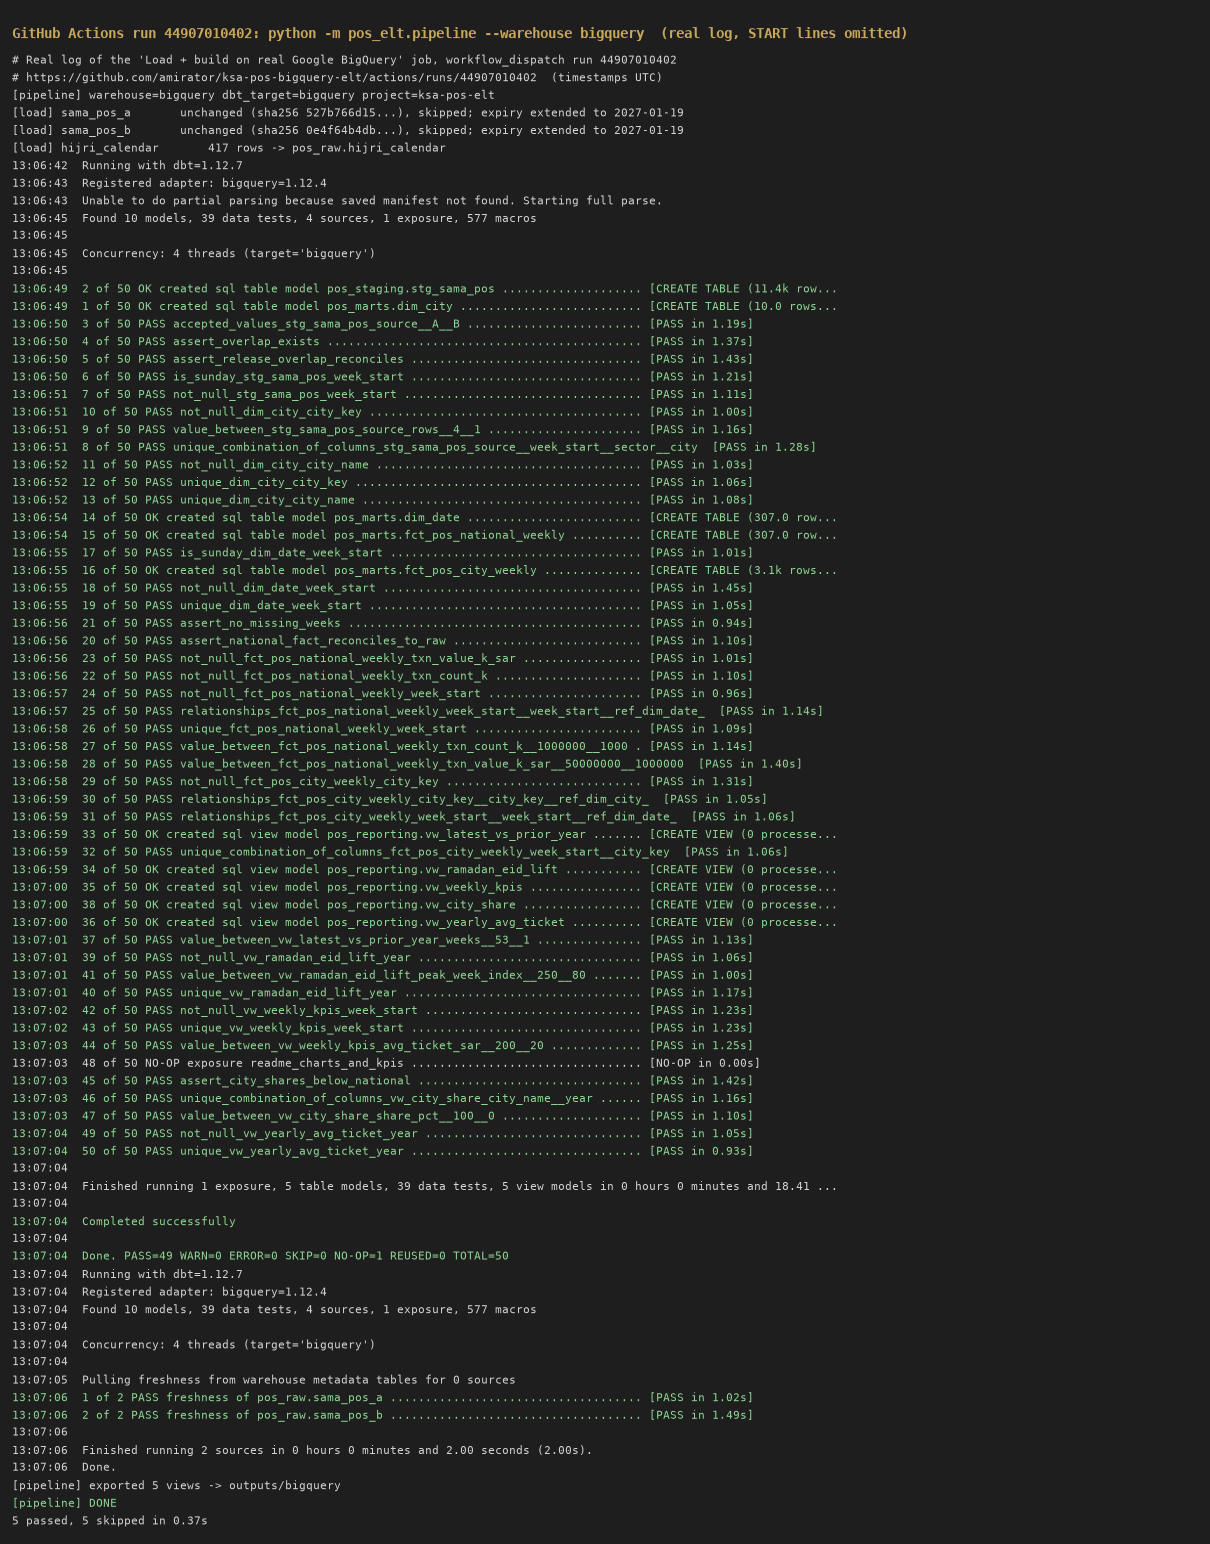
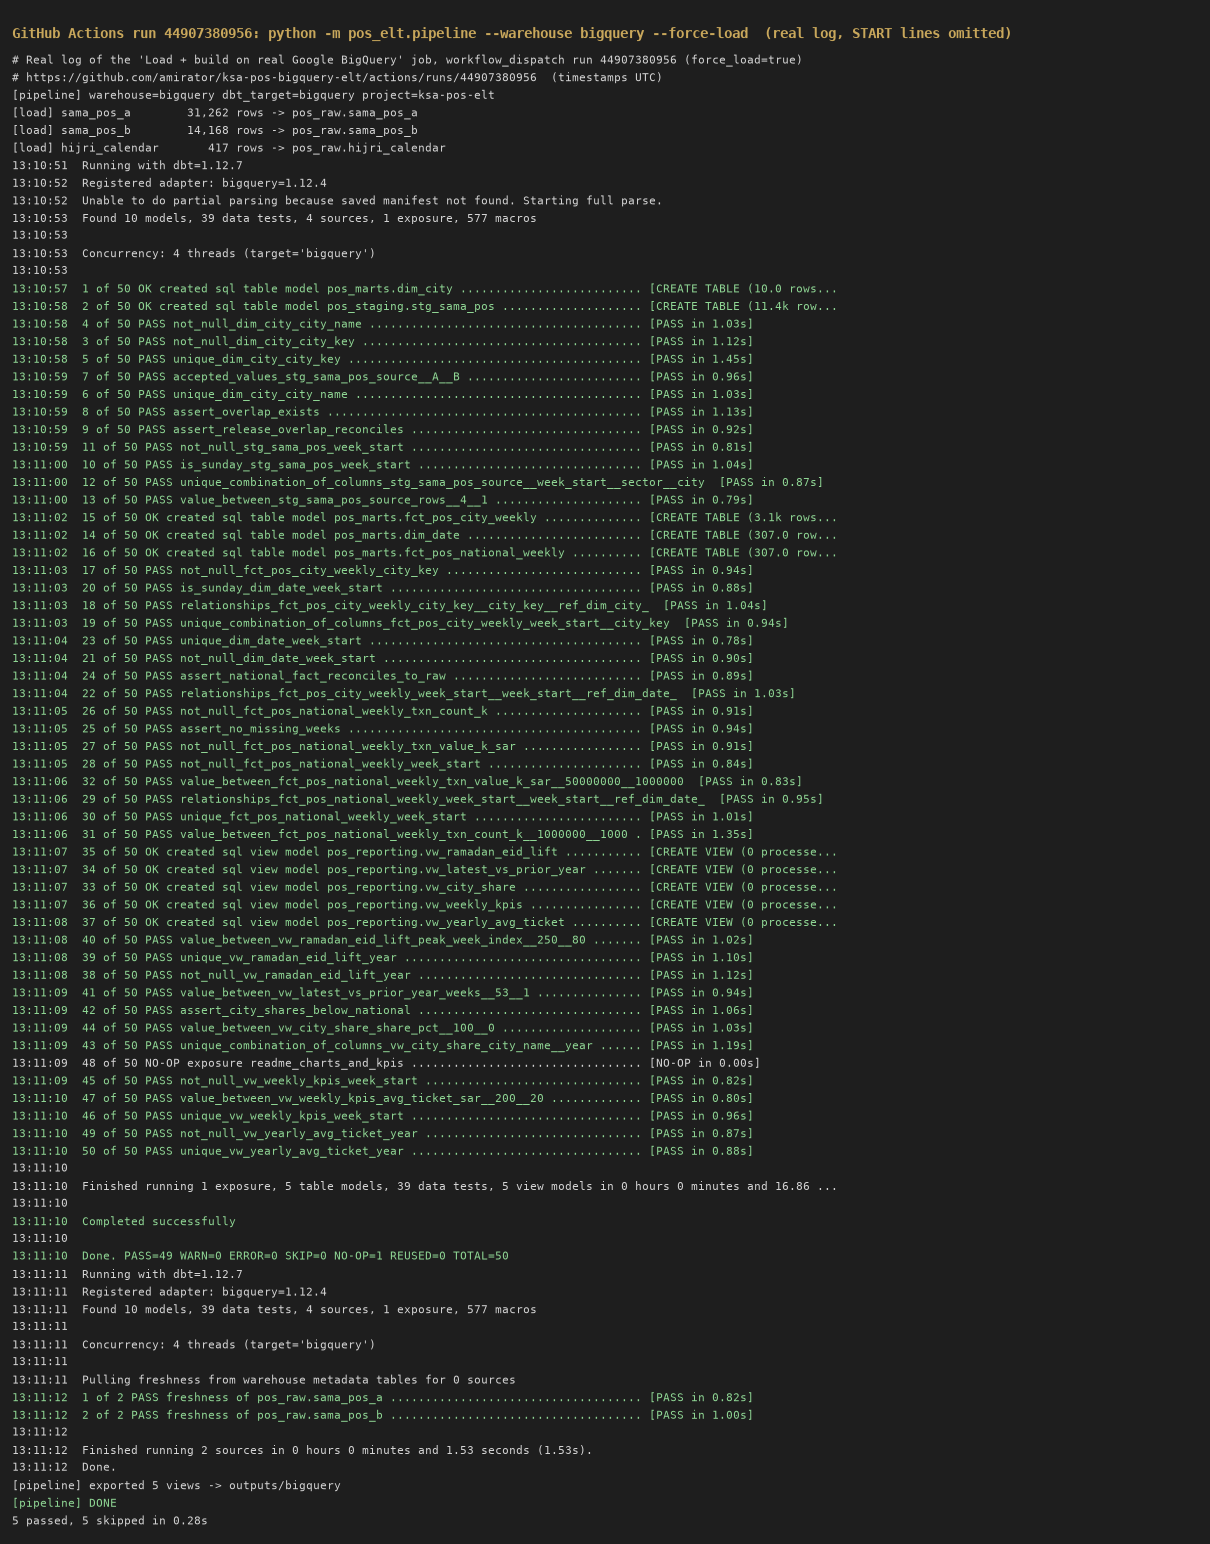
Live on Google BigQuery (sandbox): README status, real BigQuery evidence + job log, cloud-job concurrency guard

diff --git a/tests/test_outputs.py b/tests/test_outputs.py
@@ -48,9 +48,14 @@ def test_readme_numbers_match_kpis(path):
     assert s in README, f"README is out of date: {path} = {s} not found"
 
 
-def test_readme_is_honest_about_cloud_status():
-    assert "BigQuery-ready" in README
-    assert not re.search(r"(?i)\b(is|now) (live|deployed) (on|to) BigQuery\b", README)
+def test_readme_cloud_claim_is_backed_by_evidence():
+    """The README may say 'Live on Google BigQuery' only with committed evidence from a real run."""
+    assert "Live on Google BigQuery (sandbox), refreshed weekly" in README
+    ev = (ROOT / "docs" / "bigquery" / "evidence.md").read_text()
+    assert "Queried through the BigQuery API" in ev and "pos_reporting.vw_weekly_kpis | VIEW | 307" in ev
+    assert "pos_raw.sama_pos_a | TABLE | 31262" in ev
+    log = (ROOT / "docs" / "run_logs" / "bigquery_ci_run.txt").read_text()
+    assert "dbt_target=bigquery" in log and "PASS=49" in log and "ERROR=0" in log
 
 
 @pytest.mark.parametrize("view", ["vw_weekly_kpis", "vw_yearly_avg_ticket", "vw_city_share",

diff --git a/README.md b/README.md
@@ -1,6 +1,6 @@
-# KSA POS cloud ELT: SAMA weekly card spending → BigQuery-ready warehouse with dbt
+# KSA POS cloud ELT: SAMA weekly card spending → Google BigQuery (sandbox) with dbt
 
-> **Status: BigQuery-ready; cloud deploy pending account setup.** The full pipeline runs end to end on a local **DuckDB** warehouse and, in CI, on the open-source **BigQuery emulator** (same loader, same dbt models, BigQuery SQL dialect), and both engines return identical results. It has **not yet run on real Google BigQuery**: that needs a free BigQuery-sandbox project and one GitHub secret, set up by the owner (steps [below](#go-live-on-bigquery-free-sandbox-no-card)). Until then the cloud job in CI is skipped on purpose.
+> **Status: Live on Google BigQuery (sandbox), refreshed weekly.** GitHub Actions loads the data into the free BigQuery sandbox project `ksa-pos-elt` (location US), builds the dbt models and runs all 39 dbt tests there. Every Monday it refreshes the data, and a parity test confirms that the 5 views on BigQuery match the local DuckDB build. Evidence comes from real API queries in [`docs/bigquery/evidence.md`](docs/bigquery/evidence.md), and the real job log is in [`docs/run_logs/bigquery_ci_run.txt`](docs/run_logs/bigquery_ci_run.txt) (run [44907380956](https://github.com/amirator/ksa-pos-bigquery-elt/actions/runs/44907380956)). The same pipeline also runs locally on DuckDB and in CI on the open-source BigQuery emulator, with no account needed.
 
 **Business question:** *How fast is card spending at Saudi points of sale still growing, where is it going (cities, ticket size), and how big is the Ramadan/Eid swing? And can a team get those answers refreshed every week from a cloud warehouse instead of a manual spreadsheet?*
 
@@ -45,9 +45,14 @@ KAPSARC public API ──► Python loader ──────────► raw
 | Load | One **warehouse adapter** (`DuckDBWarehouse` / `BigQueryWarehouse`) chosen by the `WAREHOUSE` env var. Unchanged files are skipped by hash; every attempt, including failures, is appended to `pos_raw.load_log`; a failed source does not stop the others but fails the run. Builds a Hijri (Umm al-Qura) week calendar with Ramadan/Eid flags. | `src/pos_elt/warehouse.py`, `load.py`, `calendar.py` |
 | Transform | dbt project with three targets (`duckdb`, `bq_emulator`, `bigquery`). Portable SQL; the few dialect differences (day-of-week, date arithmetic) are adapter-dispatched macros. | `dbt/` |
 | Serve | 5 views in `pos_reporting`: **`vw_weekly_kpis`** (value, volume, avg ticket, 4-week avg, WoW, vs 52 weeks ago), **`vw_yearly_avg_ticket`**, **`vw_city_share`**, **`vw_ramadan_eid_lift`**, **`vw_latest_vs_prior_year`**. | `dbt/models/reporting/` |
-| Schedule | GitHub Actions cron every Monday 04:00 UTC (07:00 Riyadh): re-downloads SAMA data and rebuilds; the BigQuery job runs only when the `GCP_SA_KEY` secret exists. | `.github/workflows/elt.yml` |
+| Schedule | GitHub Actions cron every Monday 04:00 UTC (07:00 Riyadh): re-downloads SAMA data and rebuilds DuckDB, the emulator and **Google BigQuery** (the cloud job runs when the `GCP_SA_KEY` secret exists, one at a time). | `.github/workflows/elt.yml` |
 
-**Built for the free BigQuery sandbox.** The sandbox needs no card but allows no DML (`INSERT/UPDATE/DELETE/MERGE`) or streaming, and tables expire after 60 days. So every write is a **load job** (`WRITE_TRUNCATE` / `WRITE_APPEND`), dbt uses only `table` and `view` materialisations (DDL), and a test fails the build if anyone adds DML or an incremental model. The weekly job re-creates expired tables (a raw table that has expired is reloaded even if the file hash is unchanged).
+**Built for the free BigQuery sandbox.** The sandbox needs no card, but it allows no DML (`INSERT/UPDATE/DELETE/MERGE`) and no streaming, and every table expires after 60 days. So the pipeline handles it like this:
+- **Writes:** every write is a **load job** (`WRITE_TRUNCATE` / `WRITE_APPEND`), and dbt uses only `table` and `view` materialisations (DDL). A test fails the build if anyone adds DML or an incremental model.
+- **Expiry:** tables that dbt re-creates get a fresh 60 days on every run. Raw tables skipped as unchanged, and the append-only `load_log`, get their expiry moved to now + 59 days. Setting it beyond 60 days is refused without billing (HTTP 403, tested).
+- **Go-live fix:** the first real run showed that BigQuery reserves column names starting with `_FILE_`, so the raw lineage columns are `src_file_sha256` and `loaded_at`. The failed attempt is still recorded in `pos_raw.load_log`.
+
+![BigQuery job log](docs/img/bigquery_ci_run.png)
 
 ## Tests and checks
 
@@ -58,27 +63,28 @@ KAPSARC public API ──► Python loader ──────────► raw
   * named cities never exceed 100% of the national total.
 * **Source freshness** on `loaded_at` (warn after 8 days, error after 35).
 * **pytest**: adapter switching, Hijri calendar flags, CSV parsing with BOM and unknown-indicator rejection, loader hash-skip / reload / failure logging, sandbox no-DML guard, CI gating, README-vs-`kpis.json` drift test, and a **cross-repo reconciliation**: the KPIs must equal those published by [ksa-pos-spending-dashboard](https://github.com/amirator/ksa-pos-spending-dashboard), which built the same numbers with hand-written DuckDB SQL.
-* **BigQuery parity (CI)**: the `bigquery-emulator` job runs the identical pipeline against [goccy/bigquery-emulator](https://github.com/goccy/bigquery-emulator) v0.8.1 (checksum-verified) and asserts all 5 views equal the DuckDB views. Real log: [`docs/run_logs/bq_emulator_run.txt`](docs/run_logs/bq_emulator_run.txt).
+* **BigQuery parity (CI):** the `bigquery-cloud` job runs on **real Google BigQuery**, and the `bigquery-emulator` job runs against [goccy/bigquery-emulator](https://github.com/goccy/bigquery-emulator) v0.8.1 (checksum-verified). Each job checks that all 5 views equal the DuckDB views. Real logs: [`bigquery_ci_run.txt`](docs/run_logs/bigquery_ci_run.txt), [`bq_emulator_run.txt`](docs/run_logs/bq_emulator_run.txt).
+* **Evidence script:** after each cloud run, `scripts/bq_evidence.py` queries BigQuery for dataset location and expiry, row counts of all 14 tables/views, the load log and the latest `vw_weekly_kpis` rows (below; [Markdown](docs/bigquery/evidence.md)).
+
+![BigQuery evidence](docs/img/bigquery_evidence.png)
 
 ![BigQuery emulator run](docs/img/bq_emulator_run.png)
 
-## Go live on BigQuery (free sandbox, no card)
+## How the BigQuery connection is set up (free sandbox, no card)
 
-These steps need the repository owner's own Google account, so they have not been done yet. Nothing here costs money: the sandbox has no billing account, 10 GiB storage and 1 TiB of queries a month free (this project uses a few MB).
+This is already done for project `ksa-pos-elt`. Follow these steps to reproduce it in another project:
 
-1. Go to <https://console.cloud.google.com/bigquery>, sign in with a Google account, accept the terms and **create a project** (e.g. `ksa-pos-elt`). Do **not** add a billing account; the page should show the "sandbox" banner. Note the **project ID**.
-2. In **IAM & Admin → Service accounts**, create a service account `pos-elt-ci` and grant it two roles on the project: **BigQuery Data Editor** and **BigQuery Job User**.
-3. Open the service account → **Keys → Add key → Create new key → JSON**. A `.json` file downloads. Treat it like a password and never commit it.
-4. In GitHub: **amirator/ksa-pos-bigquery-elt → Settings → Secrets and variables → Actions → New repository secret**, name **`GCP_SA_KEY`**, and paste the whole JSON file. (Optional **variables**: `BQ_PROJECT` if it differs from the key's project, `BQ_LOCATION` if you do not want `US`.)
-5. **Actions → elt → Run workflow**. The `bigquery-cloud` job now runs: it creates datasets `pos_raw`, `pos_staging`, `pos_marts`, `pos_reporting`, loads the data, builds and tests the dbt models, and uploads the view exports as an artifact. After that it repeats every Monday.
-6. Check it in the BigQuery console (`pos_reporting.vw_weekly_kpis` → Preview). Only then change the status line at the top of this README.
+1. At <https://console.cloud.google.com/bigquery>, create a project **without** a billing account. The page shows the "sandbox" banner.
+2. Create a service account with **BigQuery Data Editor** and **BigQuery Job User** on the project, and download a JSON key. Never commit the key.
+3. Add the key in GitHub as the repository secret **`GCP_SA_KEY`**. Set the repository variables **`BQ_PROJECT`** (here `ksa-pos-elt`) and **`BQ_LOCATION`** (here `US`).
+4. Go to **Actions → elt → Run workflow**. Tick `force_load` to reload raw tables even when the SAMA files haven't changed.
 
 Run it locally against BigQuery instead of CI:
 ```bash
 export WAREHOUSE=bigquery BQ_PROJECT=<project-id> GOOGLE_APPLICATION_CREDENTIALS=/path/to/key.json
 PYTHONPATH=src python -m pos_elt.pipeline --offline
 ```
-Optional hardening: replace the JSON key with keyless Workload Identity Federation (`google-github-actions/auth` supports both).
+Possible hardening: replace the JSON key with keyless Workload Identity Federation (`google-github-actions/auth` supports both).
 
 ## Data
 
@@ -91,10 +97,10 @@ A snapshot of both CSVs is committed in `data/raw/` (with hashes in `manifest.js
 
 ## Limitations
 
-* **Not yet run on real BigQuery** (see status). Correctness of the BigQuery SQL is shown on the emulator, which implements the BigQuery API and GoogleSQL on SQLite; it is close to, but not identical to, the real service. On the emulator two small shims are applied (in `src/pos_elt/dbt_runner.py`, emulator target only), and 6 join-heavy tests (3 reconciliation, 3 relationships) are skipped there because the emulator is very slow on un-indexed joins; they run on DuckDB and will run on BigQuery.
+* **Free sandbox, not a production setup:** it has a 10 GiB lifetime storage cap and 60-day table expiry (handled above), and it is a single-person project with a service-account key rather than keyless auth. The emulator used in CI is close to real BigQuery but not identical. It needs two small shims (`src/pos_elt/dbt_runner.py`, emulator target only), and the 6 join-heavy tests are skipped on it; they run on DuckDB and on real BigQuery.
 * **Data lag:** the KAPSARC mirror ends at the week of 2026-03-22, so a weekly refresh only picks up new weeks when KAPSARC publishes them.
 * **Scope:** card POS terminals only; cash and e-commerce are not included. Sector trends are not modelled here (release B changed the sector taxonomy); city and national series are stitched A→B.
-* Sandbox tables expire after 60 days; the weekly job re-creates them. GitHub disables cron on repos with no activity for 60 days.
+* GitHub disables cron on repos with no activity for 60 days. If that happens, re-enable the workflow. The BigQuery tables would then expire within about 60 days of the last run.
 * Personal portfolio project on public data; not affiliated with SAMA or KAPSARC.
 
 ## What I borrowed (reference repos studied)

diff --git a/docs/bigquery/evidence.md b/docs/bigquery/evidence.md
@@ -1,6 +1,6 @@
 # Real Google BigQuery evidence: project `ksa-pos-elt`
 
-Queried through the BigQuery API by `scripts/bq_evidence.py` at 2026-11-21 13:07 UTC. Nothing in this file is typed by hand.
+Queried through the BigQuery API by `scripts/bq_evidence.py` at 2026-11-21 13:11 UTC. Nothing in this file is typed by hand.
 
 ## Datasets
 
@@ -16,7 +16,7 @@ Queried through the BigQuery API by `scripts/bq_evidence.py` at 2026-11-21 13:07
 | object | type | rows | expires |
 |---|---|---|---|
 | pos_raw.hijri_calendar | TABLE | 417 | 2027-01-20 |
-| pos_raw.load_log | TABLE | 15 | 2027-01-19 |
+| pos_raw.load_log | TABLE | 21 | 2027-01-19 |
 | pos_raw.sama_pos_a | TABLE | 31262 | 2027-01-19 |
 | pos_raw.sama_pos_b | TABLE | 14168 | 2027-01-19 |
 | pos_staging.stg_sama_pos | TABLE | 11418 | 2027-01-20 |
@@ -34,15 +34,15 @@ Queried through the BigQuery API by `scripts/bq_evidence.py` at 2026-11-21 13:07
 
 | source_key | status | rows_loaded | finished_utc |
 |---|---|---|---|
+| calendar | loaded | 417 | 2026-11-21 13:10 |
+| pos_b | loaded | 14168 | 2026-11-21 13:10 |
+| calendar | loaded | 417 | 2026-11-21 13:10 |
+| pos_a | loaded | 31262 | 2026-11-21 13:10 |
+| pos_b | skipped_unchanged | 0 | 2026-11-21 13:10 |
+| pos_a | skipped_unchanged | 0 | 2026-11-21 13:10 |
 | calendar | loaded | 417 | 2026-11-21 13:06 |
 | pos_b | skipped_unchanged | 0 | 2026-11-21 13:06 |
 | pos_a | skipped_unchanged | 0 | 2026-11-21 13:06 |
-| calendar | loaded | 417 | 2026-11-21 13:03 |
-| pos_b | skipped_unchanged | 0 | 2026-11-21 13:02 |
-| pos_a | skipped_unchanged | 0 | 2026-11-21 13:02 |
-| calendar | loaded | 417 | 2026-11-21 12:59 |
-| pos_b | skipped_unchanged | 0 | 2026-11-21 12:59 |
-| pos_a | skipped_unchanged | 0 | 2026-11-21 12:59 |
 
 ## Sample: `pos_reporting.vw_weekly_kpis` (latest 8 weeks)
 

diff --git a/PROJECT_BLURB.md b/PROJECT_BLURB.md
@@ -2,12 +2,13 @@
 
 **KSA POS cloud ELT (personal portfolio project, public data)**: github.com/amirator/ksa-pos-bigquery-elt
 
-One-line pitch: a weekly-scheduled ELT pipeline that loads 45,430 rows of official SAMA point-of-sale data into a BigQuery-ready warehouse and serves 5 tested SQL KPI views.
+One-line pitch: a weekly-scheduled ELT pipeline that loads 45,430 rows of official SAMA point-of-sale data into Google BigQuery (sandbox) and serves 5 tested SQL KPI views.
 
-Current state, worded honestly: runs end to end on DuckDB and on the open-source BigQuery emulator in CI with identical results; not yet run on real BigQuery (needs the owner's free sandbox project + `GCP_SA_KEY` secret).
+Current state: live on Google BigQuery (free sandbox, project `ksa-pos-elt`, US) via GitHub Actions, refreshed weekly. All 39 dbt tests pass there, and the 5 views equal the DuckDB and emulator builds (parity tests). Evidence: docs/bigquery/evidence.md.
 
 Learnings:
 - Designing for the BigQuery sandbox (no DML): load jobs with WRITE_TRUNCATE/APPEND and DDL-only dbt models.
 - Keeping one dbt project portable across DuckDB and BigQuery with adapter-dispatched macros.
 - Proving portability with a parity test instead of assuming it.
+- Real-BigQuery gaps found at go-live: the reserved `_FILE_` column prefix and the sandbox's 60-day expiry cap (no billing → HTTP 403 above 60 days).
 - Emulator gaps found and handled: no unary minus in views, no routines.list, multipart uploads, slow joins.
